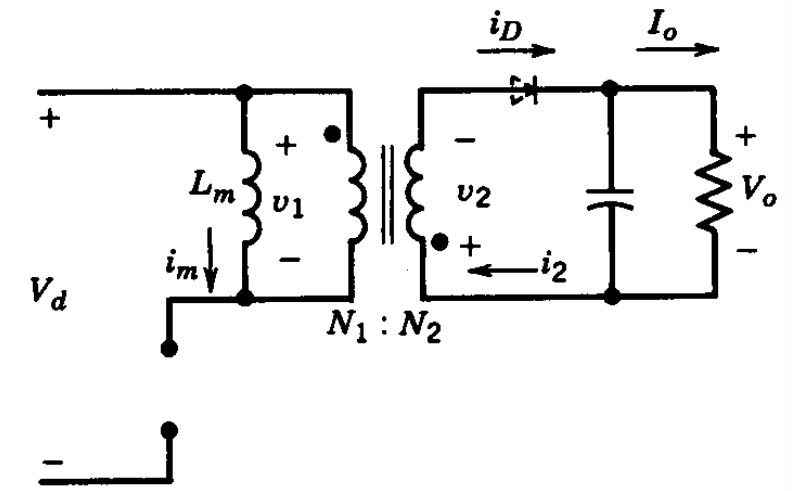
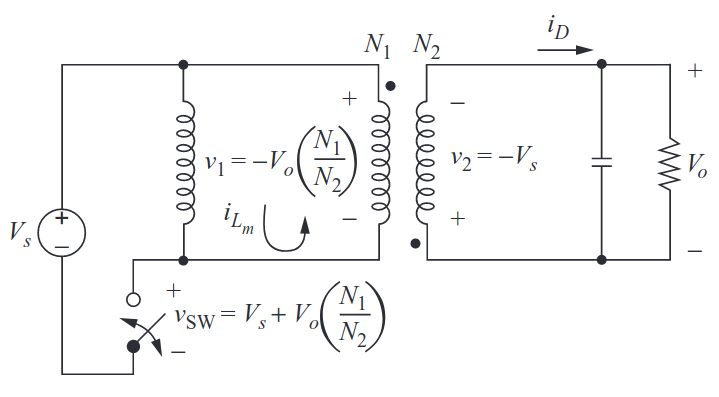
flyback converter

diff --git a/presentations/ee464_power_supplies.html b/presentations/ee464_power_supplies.html
@@ -111,7 +111,7 @@ Minimum EMI Problems
 ---
 # Flyback Converter
 
-<img src="http://www.ti.com/diagrams/pmp7279_pmp7279_reva_photo.JPG" alt="Drawing" style="width:600px;">
+<img src="./images/ee464/flyback_photo.png" alt="Drawing" style="width: 700px;">
 
 ---
 # Flyback Converter Evolution
@@ -151,7 +151,17 @@ Minimum EMI Problems
 ## Ideal Transformer
 --
 
-<img src="https://raw.githubusercontent.com/ozank/ee361/master/images/Transformer_symbol.png" alt="Drawing" style="width: 400px;">
+
+<img src="./images/ee464/transformer_symbol.png" alt="Drawing" style="width: 500px;">
+
+
+---
+# Back to EE361
+
+## Ideal Transformer
+
+<img src="./images/ee464/transformer_core.png" alt="Drawing" style="width: 800px;">
+
 ---
 # Back to EE361
 --
@@ -159,58 +169,71 @@ Minimum EMI Problems
 ## Realistic Transformer Equivalent Circuit
 --
 
-<img src="https://upload.wikimedia.org/wikipedia/commons/thumb/1/10/Transformer_equivalent_circuit-2.svg/786px-Transformer_equivalent_circuit-2.svg.png" alt="Drawing" style="width: 800px;">
+<img src="./images/ee464/transformer_full.png" alt="Drawing" style="width: 800px;">
 
 ---
 # Flyback Converter
 
-## Let's ignore resistive elements for now
+## Let's ignore resistive parts and leakage flux for now
 
-<img src="./images/ee464/transformer.png" alt="Drawing" style="width: 800px;">
---
-
-### And also leakage flux components
+<img src="./images/ee464/transformer_simple.png" alt="Drawing" style="width: 500px;">
 
 
 ---
-# Flyback Converter with Isolation
+# Flyback Converter with Transformer
+
+<img src="./images/ee464/flyback_schematic.png" alt="Drawing" style="width: 600px;">
+
+---
+# Flyback Converter with Transformer
+
+<img src="./images/ee464/flyback_schematic2.png" alt="Drawing" style="width: 600px;">
+
+
 
 ## Can you plot the operating modes?
 ---
 
-# Flyback Converter with Isolation
+# Flyback Converter
 
 ## Switch ON
---
+
 
 <img src="./images/ee464/flyback_on.png" alt="Drawing" style="width: 600px;">
 
 ---
 
-# Flyback Converter with Isolation
+# Flyback Converter
 
 ## Switch OFF
---
+
 
 <img src="./images/ee464/flyback_off.png" alt="Drawing" style="width: 600px;">
 
 ---
 
-# [Flyback Converter](https://www.plexim.com/academy/power-electronics/flyback-conv) with Isolation
+# [Flyback Converter](https://www.plexim.com/academy/power-electronics/flyback-conv)
 
-<img src="./images/ee464/flyback_waveform.png" alt="Drawing" style="width: 700px;">
+<img src="./images/ee464/flyback_waveform1.png" alt="Drawing" style="width: 450px;">
+
 ---
-# Flyback Converter with Isolation
---
 
-## Conversion ratio can be calculated in three diffrent ways:
---
+# [Flyback Converter](https://www.plexim.com/academy/power-electronics/flyback-conv)
+
+<img src="./images/ee464/flyback_waveform2.png" alt="Drawing" style="width: 500px;">
+
+
+---
+# Flyback Converter
+
+### Conversion ratio can be calculated in three different ways:
+
 
 - ### Magnetic Circuit: Transformer Flux
---
+
 
 - ### Steady state current
---
+
 
 - ### Graphically: Voltage-seconds area of the inductor
 --
@@ -235,37 +258,33 @@ Minimum EMI Problems
 \\(=\dfrac{V\_d}{(1-D)}\\)
 
 ---
-# Example
+# Flyback Converter: DCM
 
-## Hart 7.1
-
----
-# Flyback Converter
+<img src="./images/ee464/flyback_dcm.png" alt="Drawing" style="width: 600px;">
 
 
-<img src="./images/ee464/flyback.png" alt="Drawing" style="width: 600px;">
-
-## Derived from buck-boost converter
 
 ---
-# Flyback Converter with Isolation
-
-<img src="./images/ee464/flyback_isolated.png" alt="Drawing" style="width: 600px;">
-
----
-# Reading List
+# Reading Materials
 
 - ## [The Flyback Converter](http://ecee.colorado.edu/ecen4517/materials/flyback.pdf)
 
 - ## [Flyback transformer tutorial: function and design](https://www.eetimes.com/document.asp?doc_id=1273089)
 
 - ## [Flyback Converter Video](https://training.ti.com/understanding-basics-flyback-converter)
+
+- ## [Designing a DCM flyback converter](https://www.edn.com/power-tips-98-designing-a-dcm-flyback-converter/)
+
+- ## [Flyback DCM vs CCM](https://www.icbanq.com/icbank_data/online_seminar_image/Flyback_CCMVsDCM_Rev1p2.pdf)
 ---
 # Flyback Variations: Two Transistor Flyback
 --
 
-<img src="./images/ee464/two_transistor_flyback.png" alt="Drawing" style="width: 500px;">
+<img src="./images/ee464/two_transistor_flyback.png" alt="Drawing" style="width: 400px;">
 
+- #### [Improving the Performance of Traditional Flyback with Two Switch Approach](https://www.ti.com/lit/an/snva716/snva716.pdf)
+
+- #### [Operation & Benefits of Two-Switch Forward/Flyback Power Converter Topologies](https://www.embedded.com/operation-benefits-of-two-switch-forward-flyback-power-converter-topologies/)
 ---
 # Flyback Variations: Paralled Flyback
 --
